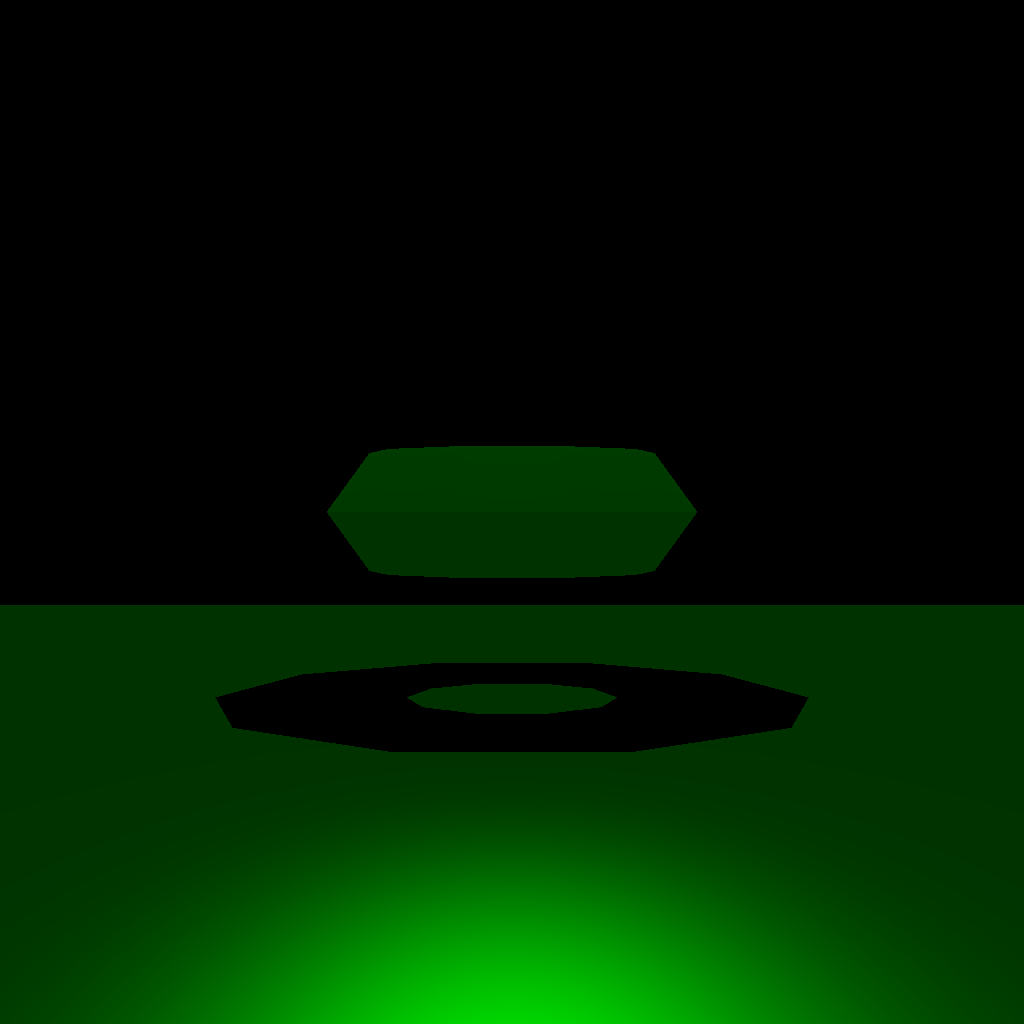
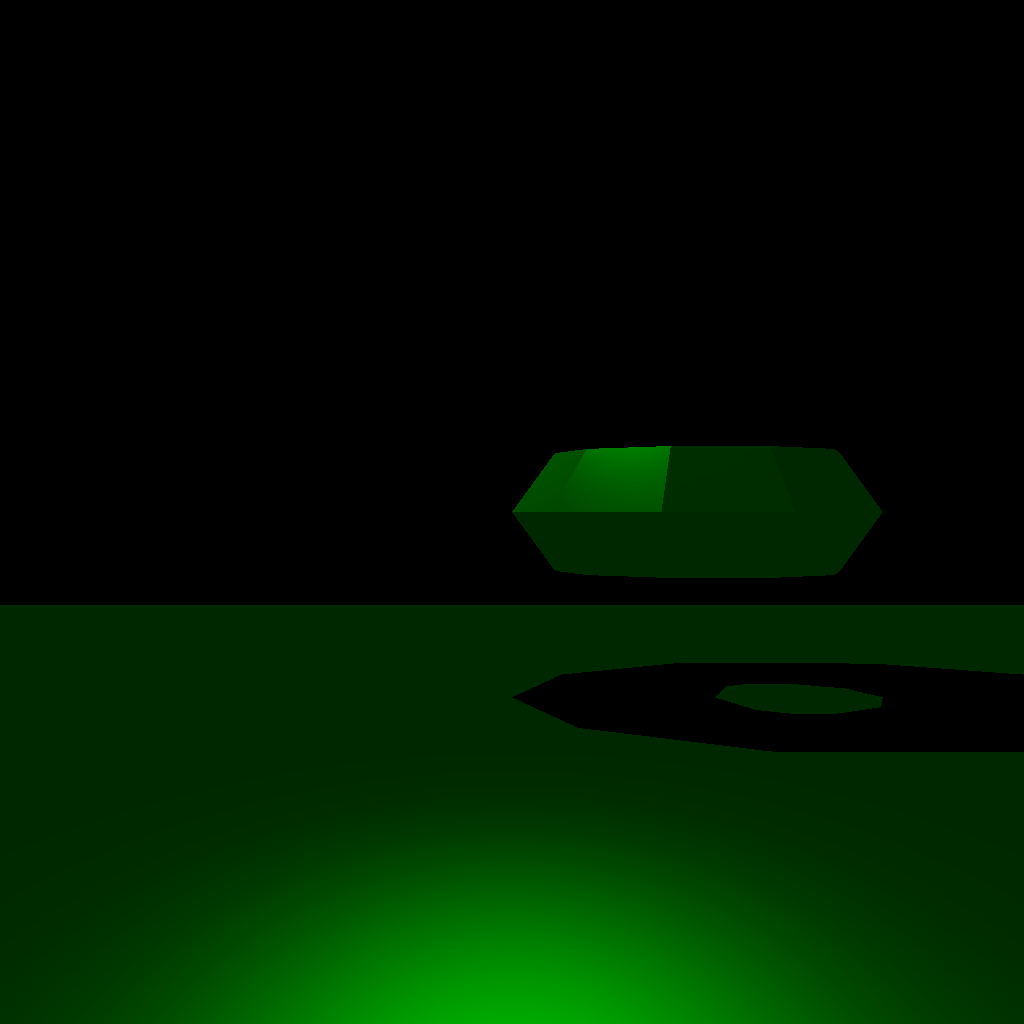
ray tracing

diff --git a/PhysicallyBasedRendering/RayTracingSceneManager.cpp b/PhysicallyBasedRendering/RayTracingSceneManager.cpp
@@ -5,10 +5,10 @@ void RayTracingSceneManager::InitializeObjects()
 	quadObj.LoadModel(QUAD);
 	movingCamera->Translate(glm::vec3(0.0f, 0.0f, 20.0f));
 
-	SceneObject nanosuit;
-	nanosuit.LoadModel("Obj/torus.obj");
+	SceneObject obj;
+	obj.LoadModel("Obj/Torus.obj");
 	
-	sceneObjs.push_back(nanosuit);
+	sceneObjs.push_back(obj);
 }
 
 void RayTracingSceneManager::Update()
@@ -73,6 +73,16 @@ void RayTracingSceneManager::Update()
 	if (InputManager::GetInstance()->IsKey(GLFW_KEY_S))
 	{
 		movingCamera->Rotate(glm::vec3(1.0f, 0.0f, 0.0f), 0.005f);
+	}
+
+	if (InputManager::GetInstance()->IsKey(GLFW_KEY_Q))
+	{
+		movingCamera->Rotate(glm::vec3(0.0f, 0.0f, 1.0f), -0.005f);
+	}
+
+	if (InputManager::GetInstance()->IsKey(GLFW_KEY_E))
+	{
+		movingCamera->Rotate(glm::vec3(0.0f, 0.0f, 1.0f), 0.005f);
 	}
 }
 

diff --git a/PhysicallyBasedRendering/RayTracingRenderer.cpp b/PhysicallyBasedRendering/RayTracingRenderer.cpp
@@ -37,7 +37,16 @@ void RayTracingRenderer::InitializeRender()
 	light.color = glm::vec3(1.0f, 0.0f, 0.0f);
 	lights.push_back(light);*/
 
+	glm::mat4 translateMat = glm::translate(glm::vec3(3.0f, 0.0f, 0.0f));
+
 	triangles = sceneManager->sceneObjs[0].GetTriangles();
+
+	for (int i = 0; i < triangles.size(); i++)
+	{
+		triangles[i].v0 = glm::vec3(translateMat * glm::vec4(triangles[i].v0, 1.0f));
+		triangles[i].v1 = glm::vec3(translateMat * glm::vec4(triangles[i].v1, 1.0f));
+		triangles[i].v2 = glm::vec3(translateMat * glm::vec4(triangles[i].v2, 1.0f));
+	}
 
 	const float halfWidth = 20.0f;
 
